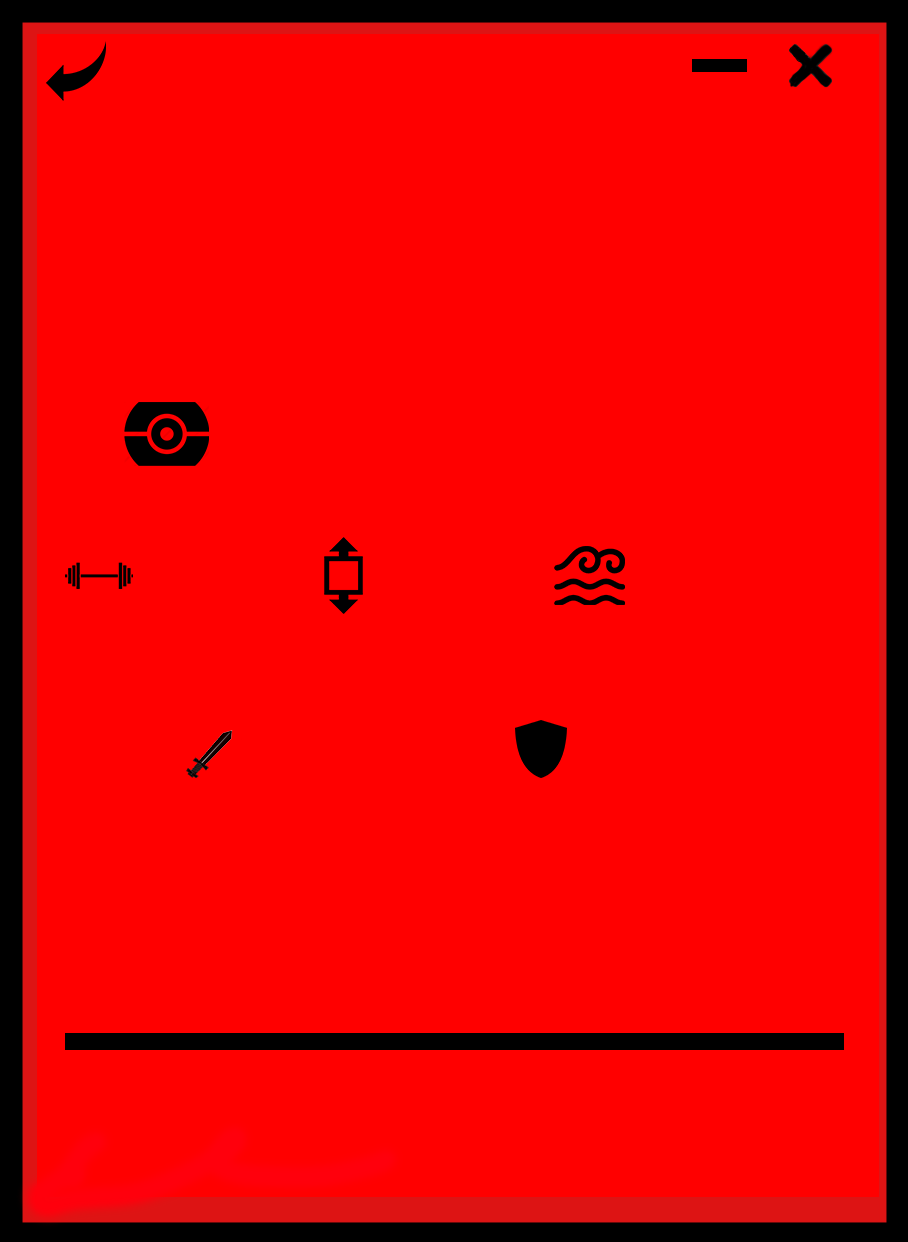
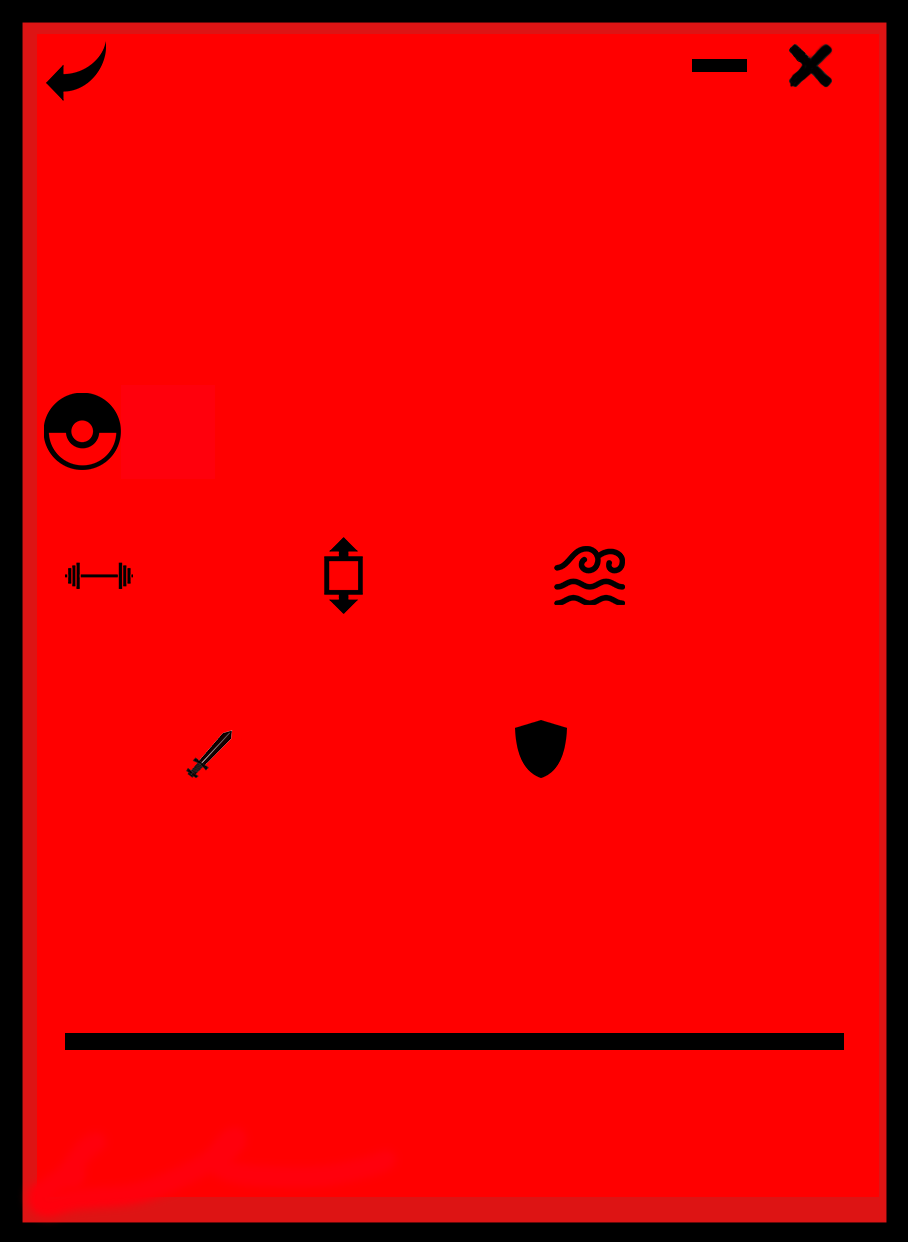
Extraer informacion parte 2
Se termina de agregar la informacion de los pokemones con su correcta posicion

Changed region(s): [[0.0308, 0.306, 0.2467, 0.3977]]

diff --git a/src/vista/VentanaPokemon.java b/src/vista/VentanaPokemon.java
@@ -1,57 +1,160 @@
 package vista;
 
+import java.awt.Color;
+import java.awt.Font;
+
 import javax.swing.JFrame;
 import javax.swing.JLabel;
+import javax.swing.SwingConstants;
 
-public class VentanaPokemon extends JFrame
-{
+public class VentanaPokemon extends JFrame {
 	String pokemonID;
 	ImagePanel panelPokemon;
 	JLabel pokemonImg;
+	JLabel pokemonNombre;
+	JLabel pokemonNumero;
+	JLabel pokemonPeso;
+	JLabel pokemonAltura;
+	JLabel pokemonTipo;
+	JLabel pokemonAttack;
+	JLabel pokemonDefense;
+	
 	private final String imagePath = "resources/ventanaPokemon.png";
 
-	
-	public VentanaPokemon()
-	{
+	public VentanaPokemon() {
 		super("VentanaPokemon");
-		setSize(500,700);
+		setSize(500, 700);
 		setLocationRelativeTo(null);
 		setUndecorated(true);
-		
+
 		panelPokemon = new ImagePanel(imagePath, 500, 700);
-		
-		
+
 		add(PokemonImg());
+		add(pokemonNombre());
+		add(pokemonNumero());
+		add(pokemonPeso());
+		add(pokemonAltura());
+		add(pokemonTipo());
+		add(pokemonAttack());
+		add(pokemonDefense());
 		add(panelPokemon);
-		
-		
+
 	}
 
+	public JLabel PokemonImg() {
 
-	public ImagePanel getPanelPokemon() {
-		return panelPokemon;
+		pokemonImg = new JLabel();
+		pokemonImg.setBounds(130, 8, 230, 230);
+		return pokemonImg;
 	}
 	
-	public JLabel PokemonImg()
-	{
-                
-		pokemonImg = new JLabel();
-		pokemonImg.setBounds(130, 20, 230, 230);
-		return pokemonImg;	
+	public JLabel pokemonNombre() {
+
+		pokemonNombre = new JLabel("",SwingConstants.CENTER);
+		pokemonNombre.setBounds(180, 140, 300, 200);
+		pokemonNombre.setFont(new Font("Monospaced",1,50));
+		pokemonNombre.setForeground(Color.BLACK);
+		return pokemonNombre;
 	}
+	
+	public JLabel pokemonNumero() {
+
+		pokemonNumero = new JLabel(pokemonID, SwingConstants.CENTER);
+		pokemonNumero.setBounds(80, 140, 100, 200);
+		pokemonNumero.setFont(new Font("Monospaced",1,50));
+		pokemonNumero.setForeground(Color.BLACK);
+		return pokemonNumero;
+	}
+	
+	public JLabel pokemonPeso() {
+
+		pokemonPeso = new JLabel("", SwingConstants.CENTER);
+		pokemonPeso.setBounds(95, 298, 50, 50);
+		pokemonPeso.setFont(new Font("Monospaced",1,25));
+		pokemonPeso.setForeground(Color.BLACK);
+		return pokemonPeso;
+	}
+	
+	
+	public JLabel pokemonAltura() {
+
+		pokemonAltura = new JLabel("", SwingConstants.CENTER);
+		pokemonAltura.setBounds(225, 298, 50, 50);
+		pokemonAltura.setFont(new Font("Monospaced",1,25));
+		pokemonAltura.setForeground(Color.BLACK);
+		return pokemonAltura;
+	}
+
+	public JLabel pokemonTipo() {
+
+		pokemonTipo = new JLabel("", SwingConstants.CENTER);
+		pokemonTipo.setBounds(335, 298, 150, 50);
+		pokemonTipo.setFont(new Font("Monospaced",1,16));
+		pokemonTipo.setForeground(Color.BLACK);
+		return pokemonTipo;
+	}
+	
+	public JLabel pokemonAttack() {
+
+		pokemonAttack = new JLabel("", SwingConstants.CENTER);
+		pokemonAttack.setBounds(120, 400, 150, 50);
+		pokemonAttack.setFont(new Font("Monospaced",1,25));
+		pokemonAttack.setForeground(Color.BLACK);
+		return pokemonAttack;
+	}
+	
+	public JLabel pokemonDefense() {
+
+		pokemonDefense = new JLabel("", SwingConstants.CENTER);
+		pokemonDefense.setBounds(290, 400, 150, 50);
+		pokemonDefense.setFont(new Font("Monospaced",1,25));
+		pokemonDefense.setForeground(Color.BLACK);
+		return pokemonDefense;
+	}
+	
+	
 	
 	
 	public JLabel getPokemonImg() {
 		return pokemonImg;
 	}
-
-
-
-	public void setPokemonID(String pokemonID) 
-	{
+	
+	public JLabel getpokemonNombre() {
+		return pokemonNombre;
+	}
+	
+	public JLabel getpokemonNumero() {
+		return pokemonNumero;
+	}
+	
+	public JLabel getpokemonPeso() {
+		return pokemonPeso;
+	}
+	
+	public JLabel getpokemonAltura() {
+		return pokemonAltura;
+	}
+	
+	public JLabel getpokemonTipo() {
+		return pokemonTipo;
+	}
+	
+	public JLabel getpokemonAttack() {
+		return pokemonAttack;
+	}
+	
+	public JLabel getpokemonDefense() {
+		return pokemonDefense;
+	}
+	
+	public void setPokemonID(String pokemonID) {
 		this.pokemonID = pokemonID;
 	}
 	
+	public ImagePanel getPanelPokemon() {
+		return panelPokemon;
+	}
 	
 	
+
 }

diff --git a/src/modelo/BDD.java b/src/modelo/BDD.java
@@ -35,7 +35,7 @@ public class BDD {
 		}
 
 	}
-	
+
 	private void setDriver(String driver) {
 		try {
 			Class.forName(driver);
@@ -53,13 +53,13 @@ public class BDD {
 		}
 	}
 
-
 	public void getCredenciales(String username) {
 
 		try {
 
 			stm = conexion.createStatement();
-			ResultSet rs = stm.executeQuery("SELECT USUARIO, CLAVE FROM CREDENCIALES WHERE USUARIO = '" + username + "'");
+			ResultSet rs = stm
+					.executeQuery("SELECT USUARIO, CLAVE FROM CREDENCIALES WHERE USUARIO = '" + username + "'");
 			if (rs.next()) {
 				this.username = rs.getString("USUARIO");
 				this.clave = rs.getString("CLAVE");
@@ -78,10 +78,11 @@ public class BDD {
 	}
 
 	public void getPokemonInfo(String pokemonID) {
-		
+
 		try {
 			stm = conexion.createStatement();
-			ResultSet rs = stm.executeQuery("SELECT NOMBRE, PESO, ALTURA, HP, ATTACK, DEFENSE FROM POKEMON WHERE ID = '" + pokemonID + "'");
+			ResultSet rs = stm.executeQuery(
+					"SELECT NOMBRE, PESO, ALTURA, HP, ATTACK, DEFENSE FROM POKEMON WHERE ID = '" + pokemonID + "'");
 			if (rs.next()) {
 				this.pNombre = rs.getString("NOMBRE");
 				this.pPeso = rs.getString("PESO");
@@ -96,10 +97,10 @@ public class BDD {
 		} catch (SQLException ex) {
 			Logger.getLogger(BDD.class.getName()).log(Level.SEVERE, null, ex);
 		}
-		
+
 		try {
 			stm = conexion.createStatement();
-			ResultSet rs = stm.executeQuery("SELECT NOMBRE FROM TIPO WHERE ID = '" + pokemonID + "'");
+			ResultSet rs = stm.executeQuery("SELECT NOMBRE FROM TIPO WHERE ID = (SELECT TIPO FROM POKEMON WHERE ID = " + pokemonID +" )");
 			if (rs.next()) {
 				this.pTipo = rs.getString("NOMBRE");
 				stm.close();
@@ -111,7 +112,7 @@ public class BDD {
 		}
 
 	}
-	
+
 	public String getUsername() {
 
 		return username;

diff --git a/src/controlador/ControladorPokemon.java b/src/controlador/ControladorPokemon.java
@@ -15,7 +15,7 @@ public class ControladorPokemon extends controlador implements MouseListener {
 	BDD data;
 
 	public ControladorPokemon() {
-		
+
 		vPokemon = new VentanaPokemon();
 		vPokemon.getPanelPokemon().addMouseListener(this);
 		data = new BDD();
@@ -25,18 +25,28 @@ public class ControladorPokemon extends controlador implements MouseListener {
 		this.cPrincipal = cPrincipal;
 	}
 
-	
-	public void setPokemon(String pokemonID)
-	{
-		
+	public void setPokemon(String pokemonID) {
 		data.getPokemonInfo(pokemonID);
+
+		vPokemon.getPokemonImg().setIcon(new ImageIcon(new ImageIcon("resources/" + pokemonID + ".png").getImage()
+				.getScaledInstance(230, 230, java.awt.Image.SCALE_SMOOTH)));
+
+		vPokemon.getpokemonNombre().setText(data.getpNombre());
+
+		vPokemon.getpokemonNumero().setText(pokemonID);
+
+		vPokemon.getpokemonPeso().setText(data.getpPeso());
 		
-		vPokemon.getPokemonImg().setIcon(new ImageIcon(new ImageIcon("resources/"+ pokemonID + ".png").getImage().getScaledInstance(230, 230, java.awt.Image.SCALE_SMOOTH)));
+		vPokemon.getpokemonAltura().setText(data.getpAltura());
 		
-		System.out.println(data.getpNombre() + "," + data.getpAltura() + "," + data.getpPeso() + "," + data.getpTipo() + "," + data.getpHP());
+		vPokemon.getpokemonTipo().setText(data.getpTipo());
+		
+		vPokemon.getpokemonAttack().setText(data.getpAttack());
+		
+		vPokemon.getpokemonDefense().setText(data.getpDefense());
+
 	}
 
-	
 	@Override
 	public void mouseClicked(MouseEvent e) {
 		double posX = e.getPoint().getX();

diff --git a/src/controlador/ControladorLogin.java b/src/controlador/ControladorLogin.java
@@ -71,14 +71,6 @@ public final class ControladorLogin extends controlador implements KeyListener, 
     }
 
     @Override
-    public void keyReleased(KeyEvent e) {
-    }
-
-    @Override
-    public void keyTyped(KeyEvent e) {
-    }
-
-    @Override
     public void mouseClicked(MouseEvent e) {
         double posX = e.getPoint().getX();
         double posY = e.getPoint().getY();
@@ -94,25 +86,26 @@ public final class ControladorLogin extends controlador implements KeyListener, 
     }
 
     @Override
-    public void mouseEntered(MouseEvent e) {
-        // TODO Auto-generated method stub
-
+    public void mouseEntered(MouseEvent e) {     
     }
 
     @Override
     public void mouseExited(MouseEvent e) {
-
     }
 
     @Override
     public void mousePressed(MouseEvent e) {
-        // TODO Auto-generated method stub
-
     }
 
     @Override
-    public void mouseReleased(MouseEvent e) {
-        // TODO Auto-generated method stub
-
+    public void mouseReleased(MouseEvent e) { 
+    }
+    
+    @Override
+    public void keyTyped(KeyEvent e) {
+    }
+    
+    @Override
+    public void keyReleased(KeyEvent e) {
     }
 }

diff --git a/src/controlador/ControladorPrincipal.java b/src/controlador/ControladorPrincipal.java
@@ -37,7 +37,7 @@ public final class ControladorPrincipal {
 	public void MostrarPokemon() {
 
 		String pokemonID = cPokedex.getPokemon();
-		
+
 		cPokemon.setPokemon(pokemonID);
 
 		vPokedex.setVisible(false);
